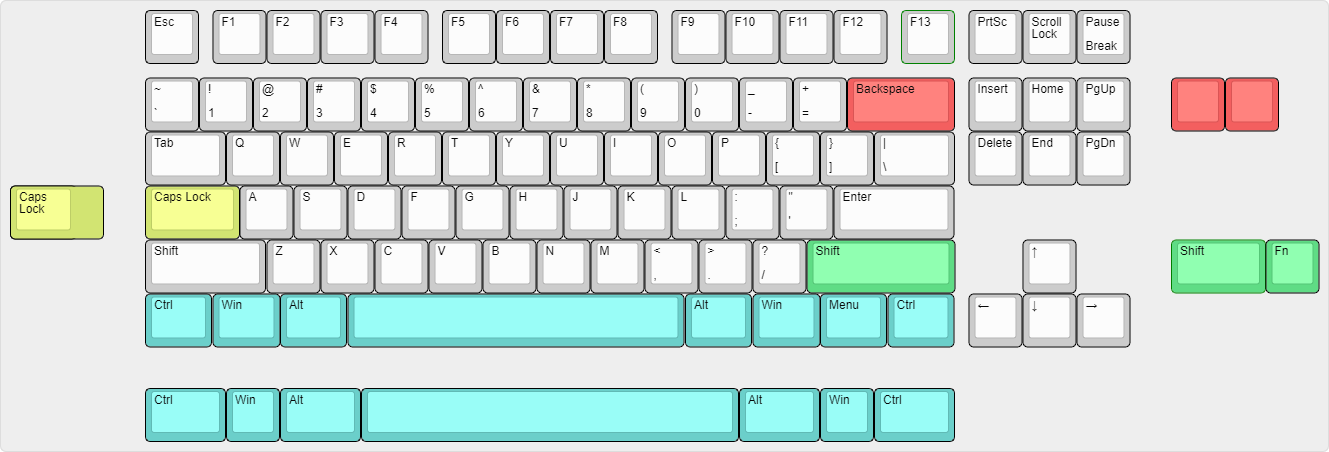
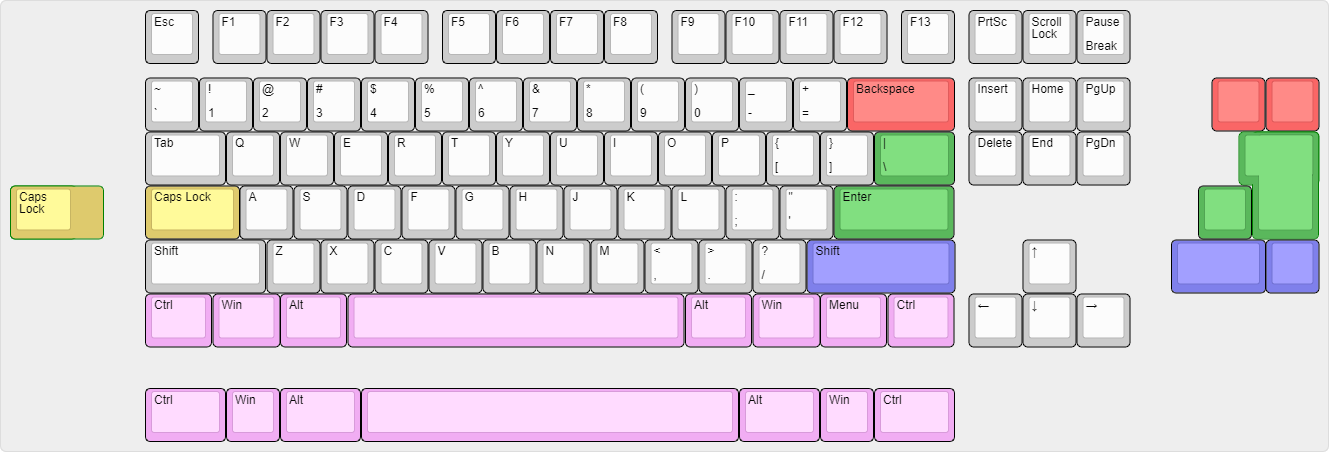
update plate compatability

diff --git a/README.md b/README.md
@@ -29,14 +29,15 @@ Torx Screw M3 x 0.50mm Thread, 6mm Long | 92832A215 | 22 pc
 ![render img]() 
 
 ## Plate Compatibility  
-#### H87A
-![render img](https://github.com/audrentis/OSTKL/blob/main/doc/h87a.png)
+<!--#### H87A
+![render img](https://github.com/audrentis/OSTKL/blob/main/doc/h87a.png)_-->
 #### H88
 ![render img](https://github.com/audrentis/OSTKL/blob/main/doc/h88.png)
-*ISO support has been added as seperate plates*
+
+*ISO and ANSI enter and left shift are in seperate plate files, however both share support for Tsangan layout* 
 
 ## Layer Breakdown 
-![render img]()
+![render img](https://github.com/audrentis/OSTKL/blob/main/doc/layerbreak.png)
 
 ## Producing this case 
 * Ensure scaling is set to millimeters 
@@ -48,7 +49,7 @@ Torx Screw M3 x 0.50mm Thread, 6mm Long | 92832A215 | 22 pc
     * This can be done to provide an accent piece, for example, if you want a POM plate, but the look of brass. 
 
 * Laser cutting services I have used for prototypes are [Ponoko](https://www.ponoko.com/) and [SendCutSend](https://sendcutsend.com/)
-    * This repository contains the _**raw files**_ which will require research and modification of one's own to produce and potentially fix issues if they exist
+    * This repository contains the _**raw files**_ which will require research and modification of one's own to produce and potentially fix issues if they exist. 
     * Make sure to follow design instructions when placing an order, including available stock sizes and kerf values. 
         * learn more about kerf [here](http://www.cutlasercut.com/resources/tips-and-advice/what-is-laser-kerf#:~:text=in%20a%20drawing-,What%20does%20kerf%20mean%3F,type%20and%20other%20conditional%20factors.)
 
